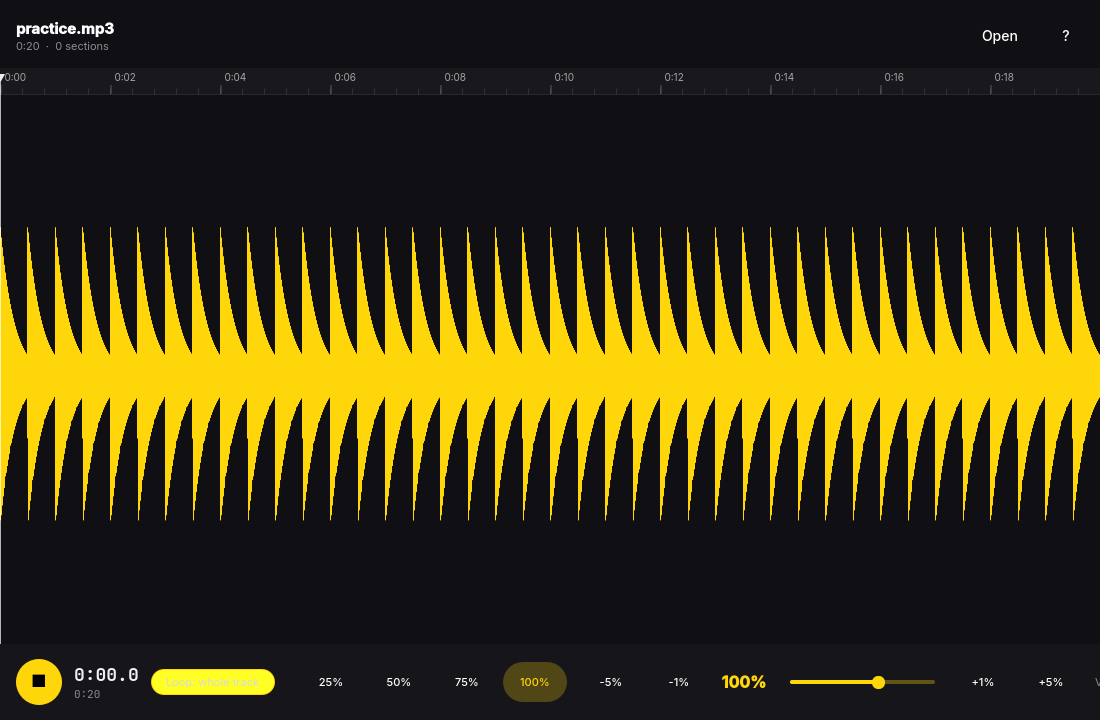
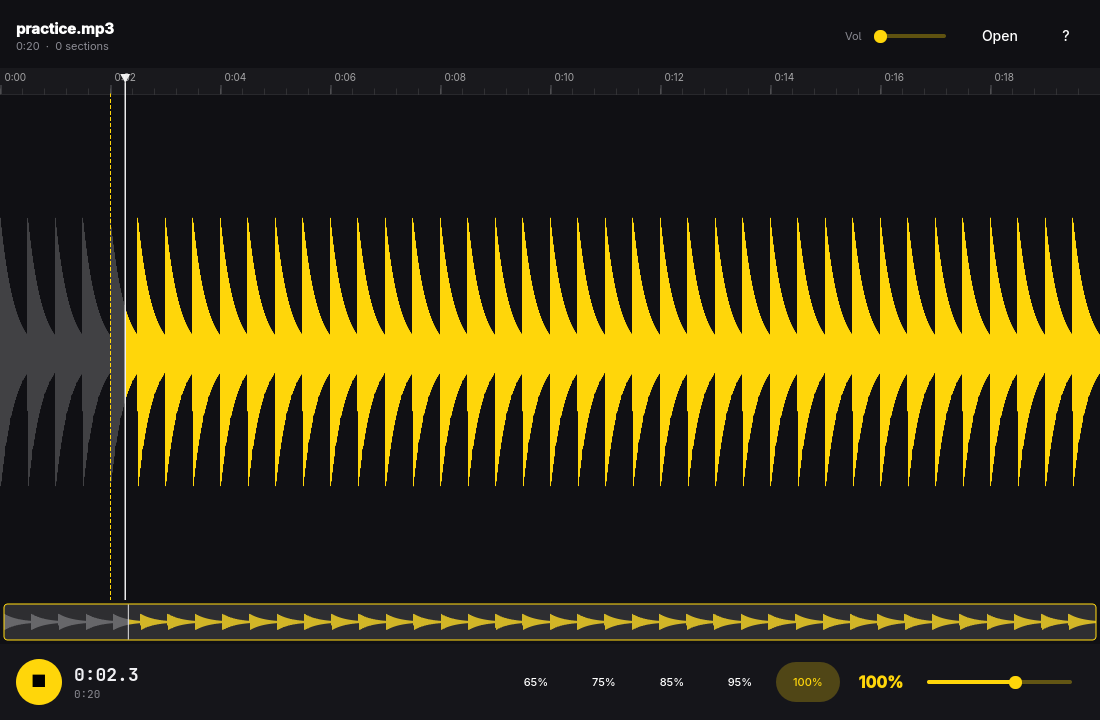
README in Russian, fresh screenshot, no external analog references
Rewrote the README in Russian (features, shortcuts, build notes, CLI),
replaced the screenshot with a current one showing the header volume
control, the overview strip and the 65-100% presets, and dropped the
references to the inspiration analog, including code comments.

Changed region(s): [[0.0, 0.3056, 1.0, 0.7028], [0.0, 0.825, 1.0, 0.9778], [0.7727, 0.0306, 0.8655, 0.0611]]

diff --git a/src/Main.qml b/src/Main.qml
@@ -474,7 +474,7 @@ ApplicationWindow {
 
                     Item { Layout.fillWidth: true }
 
-                    // Speed presets and fine control, Transcribe!-style.
+                    // Speed presets and fine control.
                     Row {
                         spacing: 4
                         Repeater {

diff --git a/src/waveformitem.cpp b/src/waveformitem.cpp
@@ -215,7 +215,7 @@ void WaveformView::paint(QPainter *painter) {
         const double se = m_backend->selectionEnd();
         const qreal x1 = xOf(ss);
         const qreal x2 = xOf(se);
-        // Everything outside the loop dims, Transcribe!-style, so the loop
+        // Everything outside the loop dims, so the loop
         // reads at a glance.
         painter->setPen(Qt::NoPen);
         painter->setBrush(QColor(0, 0, 0, 90));

diff --git a/README.md b/README.md
@@ -1,76 +1,76 @@
 # riffer
 
-A native Linux practice player for MP3 and WAV files, in the spirit of
-[Transcribe!](https://www.seventhstring.com/xscribe/overview.html) but with
-just what you need to learn a piece: slow it down without changing the pitch,
-see the whole track, and loop passages until they sit under your fingers.
+Нативный плеер для Linux, чтобы разучивать музыку на слух: замедляет MP3 и
+WAV без изменения тональности, показывает трек целиком и зацикливает
+отрывки, пока те не лягут под пальцы.
 
 ![riffer](docs/screenshot.png)
 
-## What it does
+## Что умеет
 
-- Opens MP3 and WAV (and anything else ffmpeg reads); can be the default
-  application for both — run `bin/associate` once after installing.
-- Changes playback speed from 20% to 150% with the pitch untouched:
-  quick keys (`[` `]` for ±5%, `{` `}` for ±1%), presets (65/75/85/95/100)
-  and a fine slider.
-- Shows the whole track as a waveform; zoom with `Ctrl+wheel`, `+`/`-`, `F`
-  (fit selection) and `0` (fit track). Click sets the play position; drag
-  selects a passage; drag either edge to fine-tune it.
-- Loops by default: the whole track, from the start cursor, or the
-  selection — whichever is furthest along. Clicking the wave places the
-  start cursor. `Space` plays from it; `Space` again stops and leaves the
-  playhead standing there as a bookmark, so you can place the start
-  cursor at (or near) where you stopped and pick up from there.
-- Marks named sections (`M` at the start, `M` again at the end, `Shift+M`
-  for the selection) with a panel (`Tab`) to jump, rename, play or delete.
-  Sections, speed, volume and selection are saved to a
-  `<file>.riffer.json` sidecar beside the audio, atomically. The cursor
-  is not persisted: a track always opens at its start.
-- A strip under the waveform shows the whole track with a viewport
-  rectangle — click or drag it to move the zoomed view.
+- Открывает MP3 и WAV (и всё, что читает ffmpeg); может стать приложением
+  по умолчанию для обоих форматов — один раз запустите `bin/associate`
+  после установки.
+- Меняет скорость от 20% до 150% не трогая тональность: клавиши
+  (`[` `]` — ±5%, `{` `}` — ±1%), пресеты (65/75/85/95/100) и точный
+  ползунок.
+- Показывает весь трек волной; зум — `Ctrl+колесо`, `+`/`-`, `F`
+  (к выделению) и `0` (весь трек). Клик ставит стартовый курсор;
+  протяжка выделяет отрывок; за края выделение можно подвинуть.
+- Цикл по умолчанию: весь трек, от стартового курсора или выделение —
+  что из них дальше. Клик по волне ставит стартовый курсор. `Space`
+  играет от него; повторный `Space` останавливает, и каретка остаётся
+  стоять на месте остановки — ориентир, чтобы поставить стартовый курсор
+  туда или рядом и продолжить с этой точки.
+- Отмечает именованные секции (`M` в начале, `M` ещё раз в конце,
+  `Shift+M` по выделению) с панелью (`Tab`): переход, переименование,
+  проигрывание, удаление. Секции, скорость, громкость и выделение
+  сохраняются в `<файл>.riffer.json` рядом с аудио, атомарно. Курсор
+  не сохраняется: трек всегда открывается с начала.
+- Полоса под волной показывает весь трек с рамкой окна просмотра —
+  клик или протяжка по ней двигают зум, не меняя масштаб.
 
-## Shortcuts
+## Горячие клавиши
 
-| Key | Action |
+| Клавиша | Действие |
 | --- | --- |
-| `Space` | Play from the start cursor; stop keeps the playhead where it stopped |
-| `[` `]` | Slower / faster by 5% |
-| `{` `}` | Slower / faster by 1% |
-| `1` `2` `3` `4` | Speed presets 100%, 95%, 85%, 75% |
-| `←` `→` | Nudge the start cursor 0.5 s (`Shift`: 5 s) |
-| `↑` `↓` | Volume ±5% |
-| `I` / `O` | Selection start / end at the playhead |
-| `M` | Mark a section (press twice), `Shift+M` from selection |
-| `Tab` | Sections panel |
-| `F` / `0` | Zoom to selection / whole track |
-| `+` / `-`, `Ctrl+wheel` | Zoom |
-| `Home` / `End` | Jump to start / end |
-| `Ctrl+Z` / `Ctrl+Shift+Z` | Undo / redo a section edit |
-| `Ctrl+O` | Open a file |
-| `Esc` | Clear selection, close panels and dialogs |
-| `?` | All shortcuts |
-| `Q` | Quit |
+| `Space` | Играть от стартового курсора; стоп оставляет каретку на месте остановки |
+| `[` `]` | Медленнее / быстрее на 5% |
+| `{` `}` | Медленнее / быстрее на 1% |
+| `1` `2` `3` `4` | Пресеты скорости 100%, 95%, 85%, 75% |
+| `←` `→` | Сдвинуть стартовый курсор на 0,5 с (`Shift`: 5 с) |
+| `↑` `↓` | Громкость ±5% |
+| `I` / `O` | Начало / конец выделения по каретке |
+| `M` | Отметить секцию (два нажатия), `Shift+M` по выделению |
+| `Tab` | Панель секций |
+| `F` / `0` | Зум к выделению / весь трек |
+| `+` / `-`, `Ctrl+колесо` | Зум |
+| `Home` / `End` | В начало / в конец |
+| `Ctrl+Z` / `Ctrl+Shift+Z` | Отменить / повторить правку секций |
+| `Ctrl+O` | Открыть файл |
+| `Esc` | Сбросить выделение, закрыть панели и диалоги |
+| `?` | Все горячие клавиши |
+| `Q` | Выход |
 
-## How it is built
+## Как устроено
 
-C++ and Qt Quick, following the Omarchy app conventions (theme accent and
-rounding live, xdg-desktop-portal file dialogs, keyboard-first). Decoding
-goes through the `ffmpeg` command line; playback is an in-memory buffer
-pumped through SoundTouch into `QAudioSink`, which makes the loops seamless
-and the speed changes instant.
+C++ и Qt Quick, по конвенциям приложений Omarchy (акцент темы и скругления
+подхватываются на лету, файловые диалоги через xdg-desktop-portal,
+управление с клавиатуры). Декодирование идёт через командную строку
+`ffmpeg`; воспроизведение — буфер в памяти, прокачиваемый через SoundTouch
+в `QAudioSink`, поэтому циклы бесшовные, а скорость меняется мгновенно.
 
-    ./bin/build     # qmake6 + make into build/riffer
-    ./bin/test      # offscreen Qt Test run
+    ./bin/build     # qmake6 + make, бинарь в build/riffer
+    ./bin/test      # прогон Qt Test без окна
     ./bin/install   # makepkg + pacman -U
-    ./bin/associate # make riffer the default for MP3/WAV
+    ./bin/associate # назначить riffer основным для MP3/WAV
 
-There is a small headless interface for agents and scripts:
+Есть небольшой headless-интерфейс для агентов и скриптов:
 
-    riffer sections <file>            # table of saved sections
-    riffer sections <file> --json
+    riffer sections <файл>            # таблица сохранённых секций
+    riffer sections <файл> --json
 
-## License
+## Лицензия
 
-MIT. The theme watcher, translator and portal file picker are adapted from
-Omacut and Monologue (MIT, David Heinemeier Hansson).
+MIT. Наблюдатель темы, переводчик и файловый пикер через портал
+адаптированы из Omacut и Monologue (MIT, David Heinemeier Hansson).
